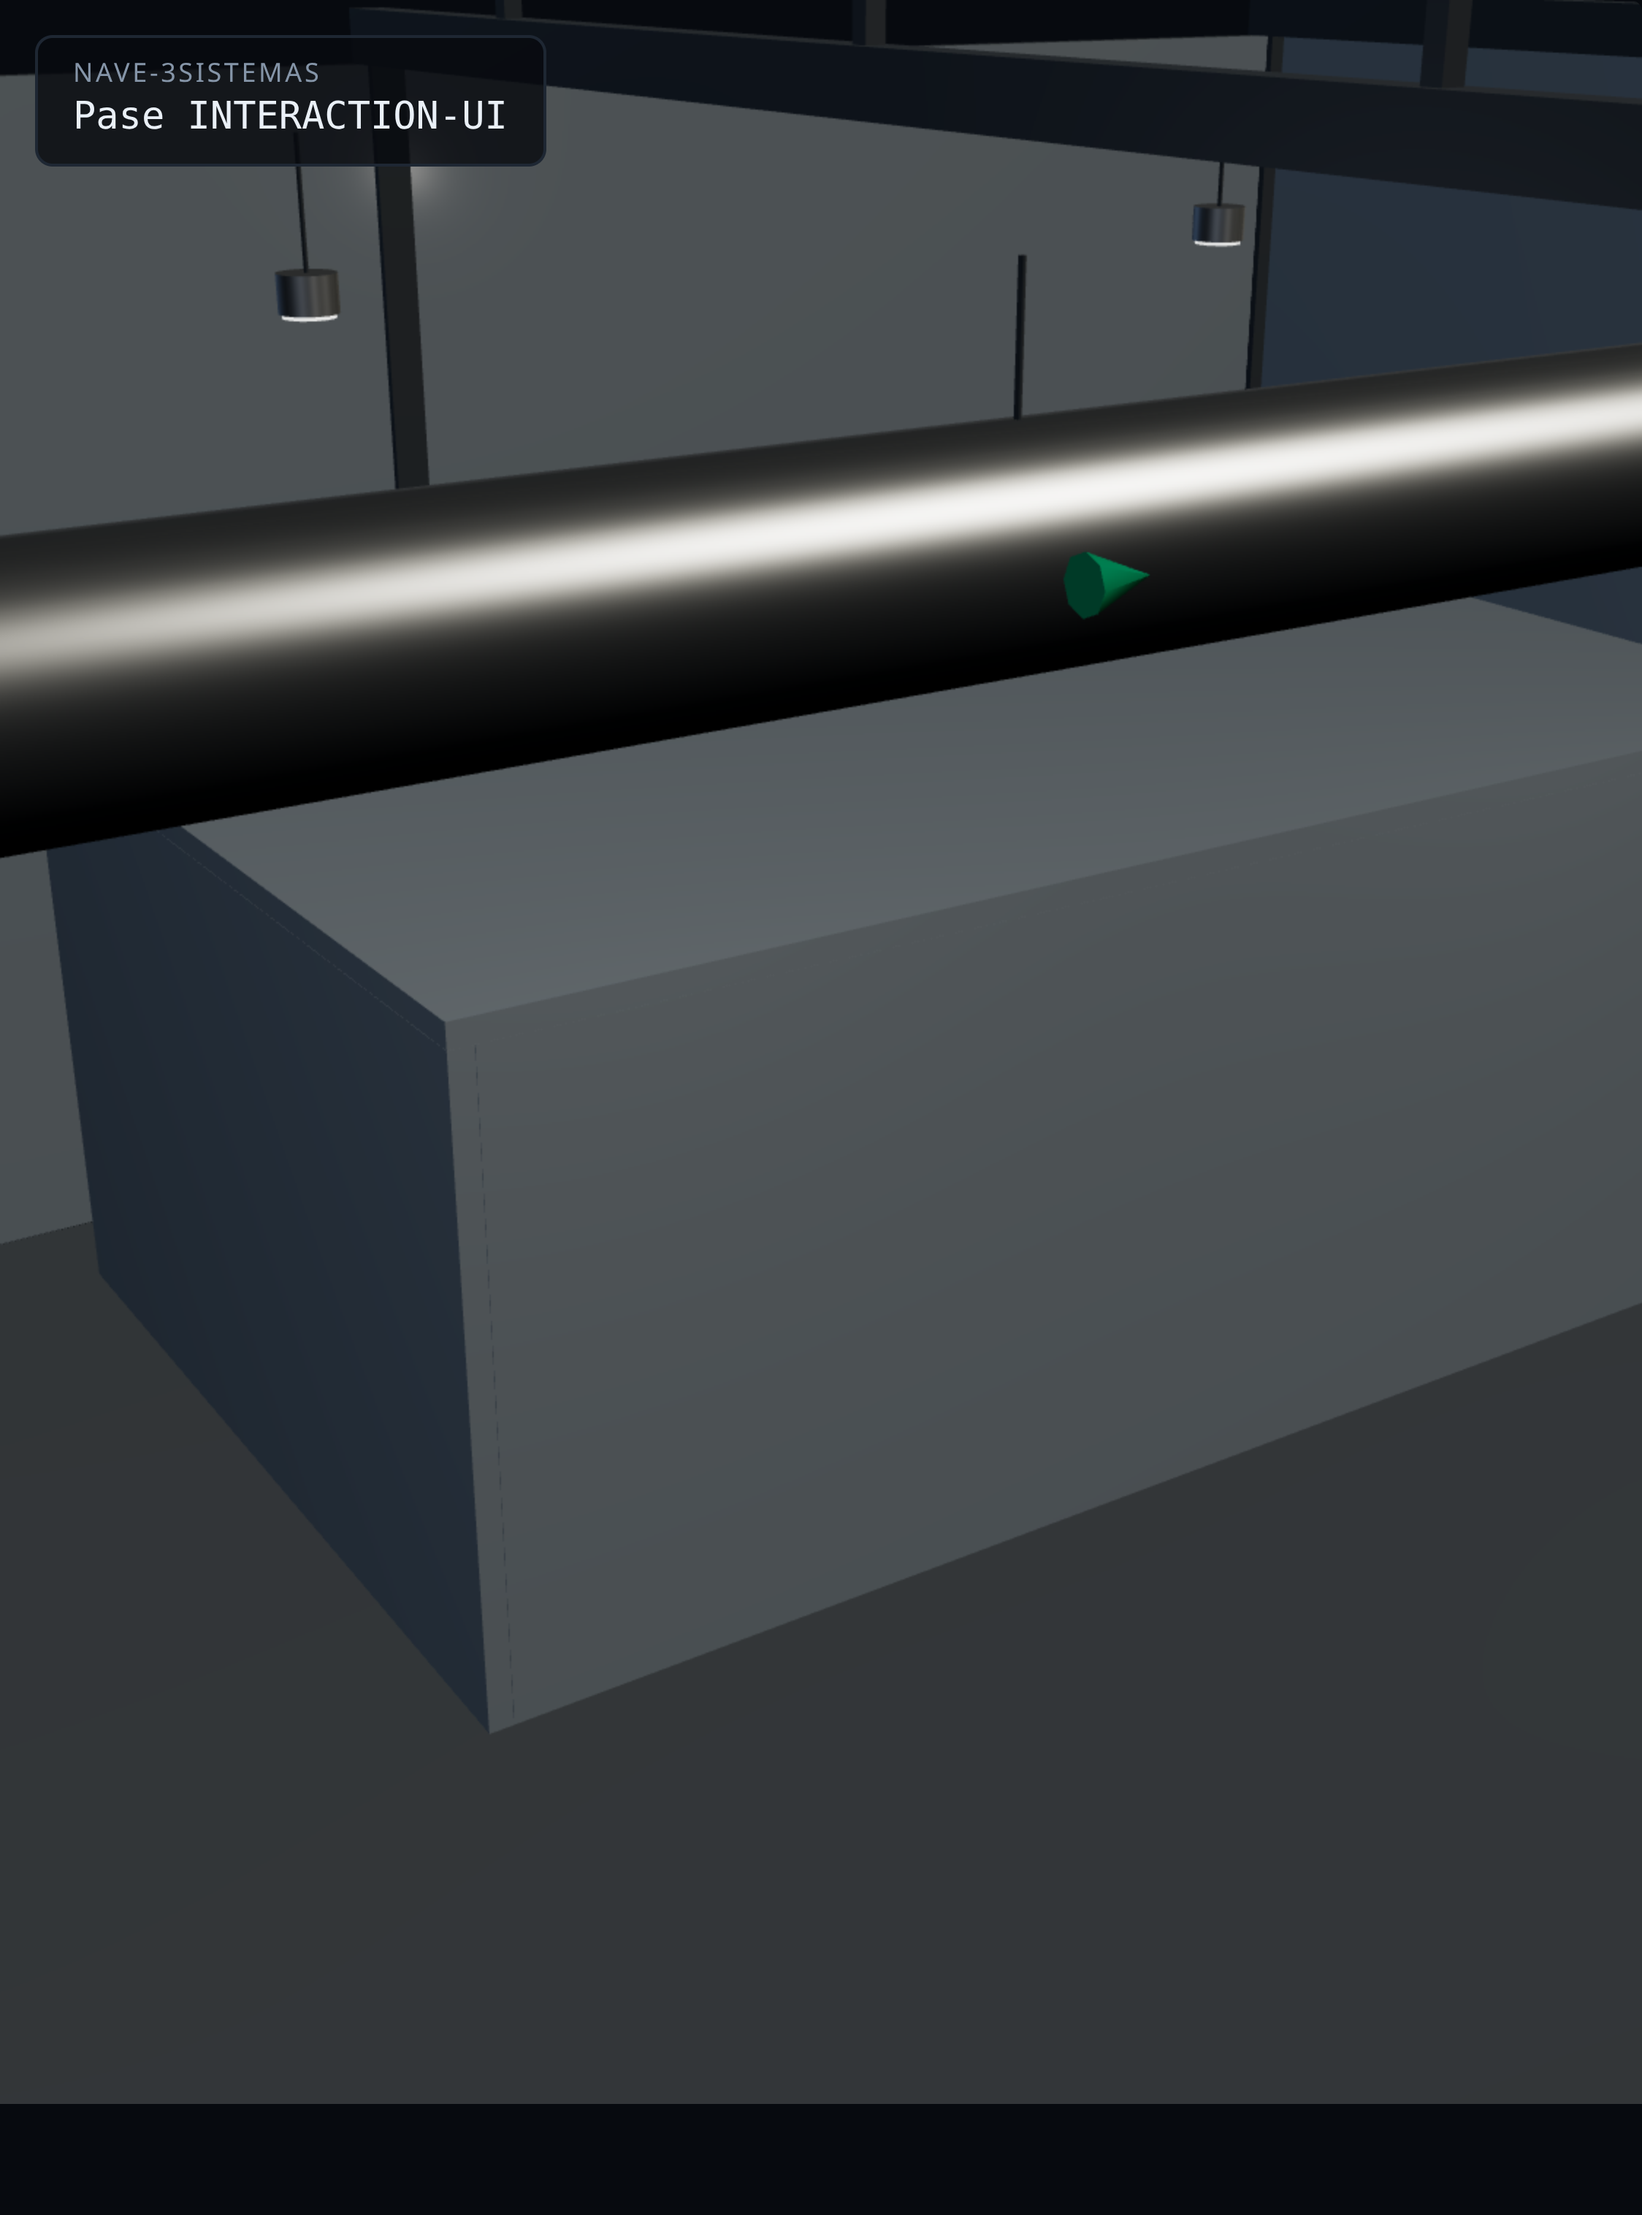
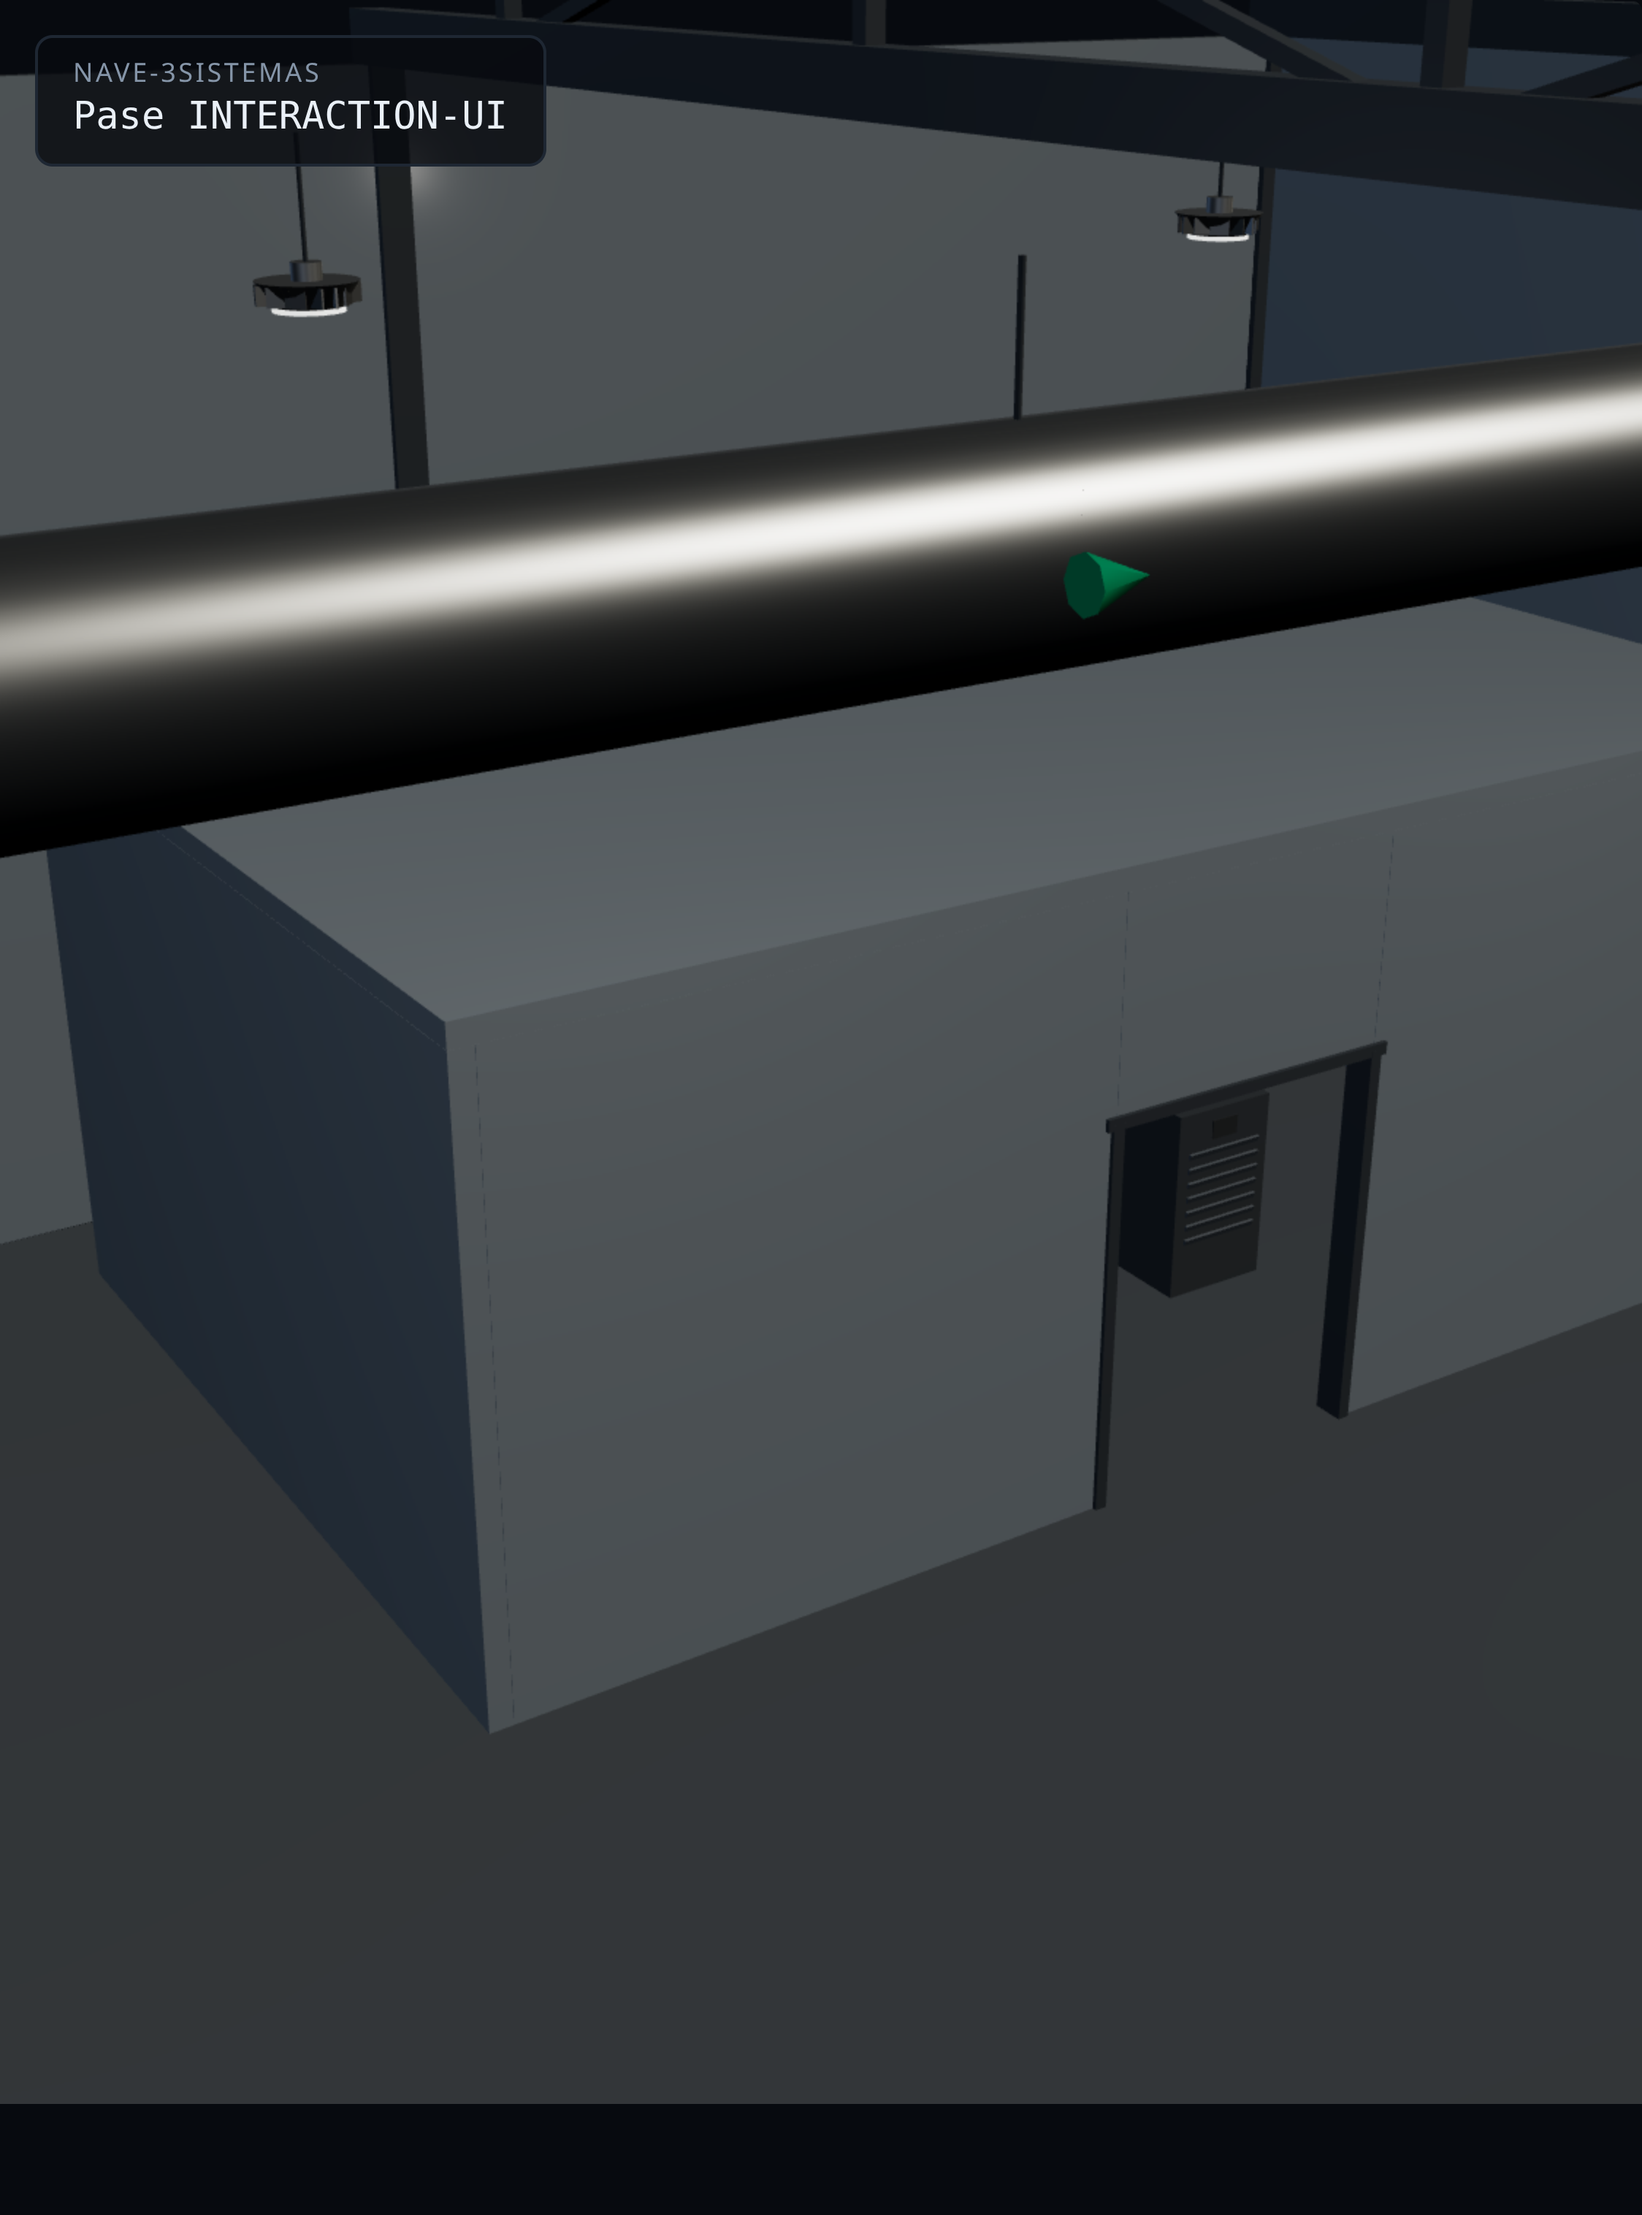
test(nave-3sistemas): lighting-camera pass PASSES on attempt 3 (0.79, all 5 features)
Blind fresh-context judge, 11-shot evidence set. global 0.79 >= 0.75 and every critical
feature clears its threshold: enclosure 0.83, skid-identity 0.81, bay-structure 0.78,
luminaire-grid 0.78, ahu-and-duct-run 0.76. Three minor defects deferred as DC6-DC8
(duct diffuser gizmos, crude scale figure, dim outer luminaire rows). Pass closed.

diff --git a/disenos/nave-3sistemas/runs/DEFERRED-CORRECTIONS.md b/disenos/nave-3sistemas/runs/DEFERRED-CORRECTIONS.md
@@ -12,3 +12,6 @@ owns them, or explicitly accepted by the user.
 | DC3 | blockout attempt 3 panel (A, B, C — unanimous) | The 18 luminaires cannot be COUNTED from any capture; all three judges enumerated 15–17 and inferred the rest from regularity. A count is a fact the evidence should deliver, not a pattern the judge should extrapolate. | New `luminaire-plan` preset down the short axis — ALREADY WRITTEN and registered in the view vocabulary, not yet in the shot contract. Add it to the contract at the lighting-camera pass. | lighting-camera | CLOSED 2026-08-15 — rebuilt as a near-NADIR plan (pos (8,48,0) / fov 58; a small +X camera offset maps the 40 m axis to the tall screen since OrbitControls fixes its orbit axis to +Y at construction). Blind gate scored luminaire-grid 0.76 PASS: ~13-15 counted + regular 6×3 pattern carries it over the 0.75 threshold (was inferred from ~8 at blockout). Count now reads. (Residual: a strict all-18 enumeration is still partly inferred; acceptable at threshold.) |
 | DC4 | blockout attempt 3 panel (C) | The 8 diffusers on the trunk-duct underside are not distinguishable as individual outlets in any capture; only the green flow arrows read. Judge C could not confirm whether they are too small or absent. | Verify the `diffuser_array` geometry exists and is sized to read; enlarge or add a per-diffuser flow cone. Check FIRST whether it is a presence or a scale problem — do not add geometry before measuring. | structural | open |
 | DC5 | blockout attempt 3 panel (C) | The compressed-air distribution main (0.08 m over a 29.5 m run) is visually dominated by the 0.95 m HVAC trunk duct and cannot be told apart in any interior view. | Give it the stainless-pipe material and its own flow markers so the two services read as different systems. | materials | open |
+| DC6 | lighting-camera attempt3 (PASS, minor) | Along the trunk duct the "diffusers" are green flow-arrow gizmos, not modelled supply diffusers, and the trunk reads as a round polished tube rather than sheet-metal ductwork. | Model a few rectangular supply diffusers on the trunk underside and hide the flow gizmos in beauty captures. | structural/materials | open |
+| DC7 | lighting-camera attempt3 (PASS, minor) | The scale human figure is a crude capsule-head + block-torso mannequin; small and low-detail, so it only weakly conveys the 8 m clear height. | Replace with a higher-fidelity ~1.8 m silhouette placed beside the skid or a wall in a hero-scale frame. | structural | open |
+| DC8 | lighting-camera attempt3 (PASS, minor) | In luminaire-plan the outer rows of the 6x3 array fall into shadow, so a strict all-18 count is partly inferred. | Lift ambient/fill slightly for the plan capture so all 18 highbay caps are individually countable. | lighting-camera | open |
